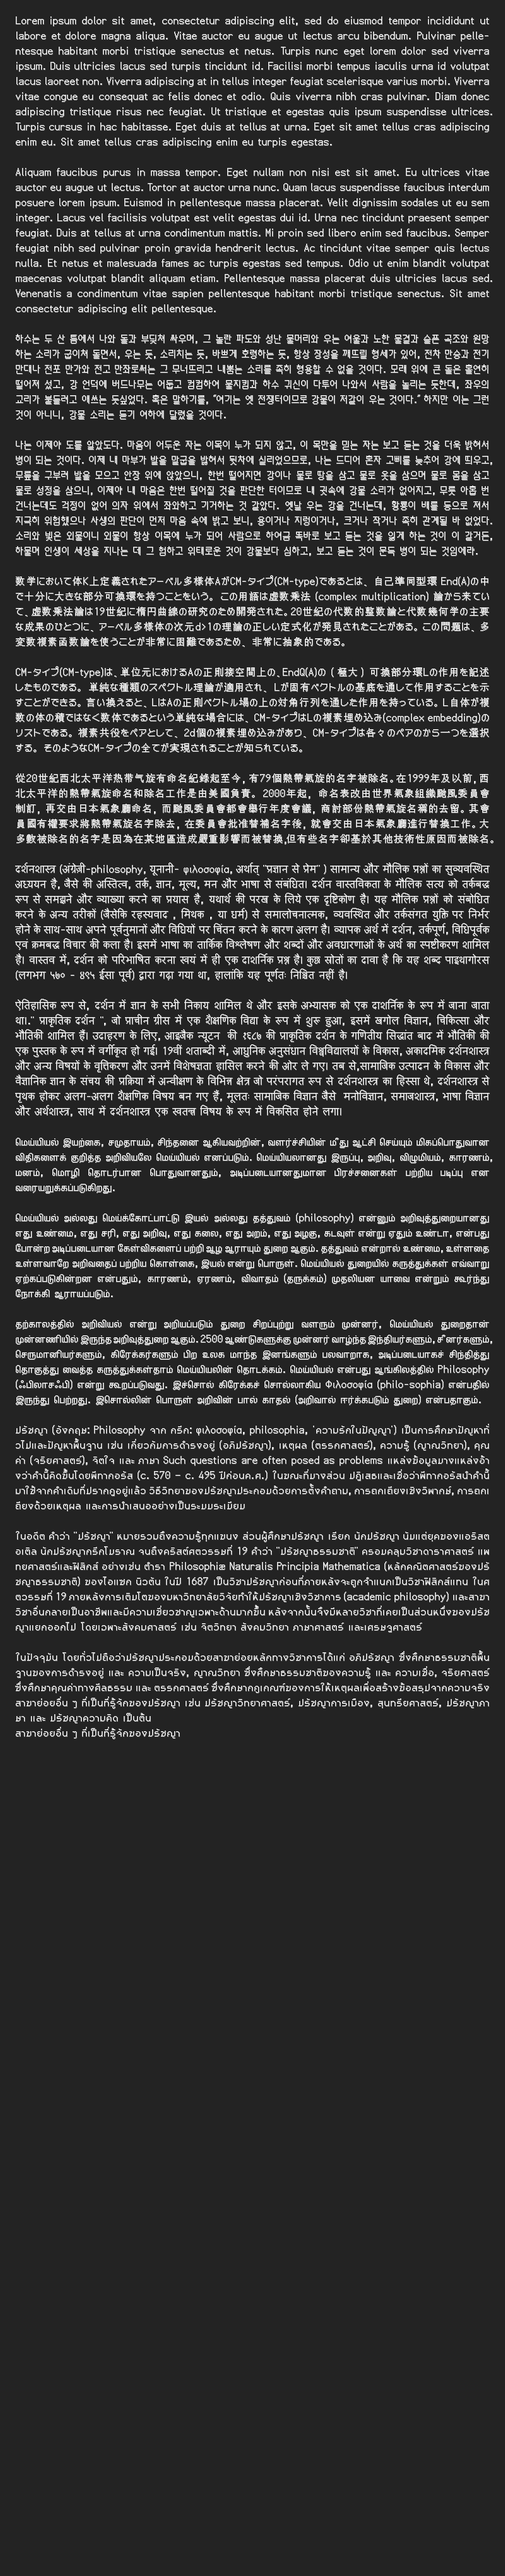
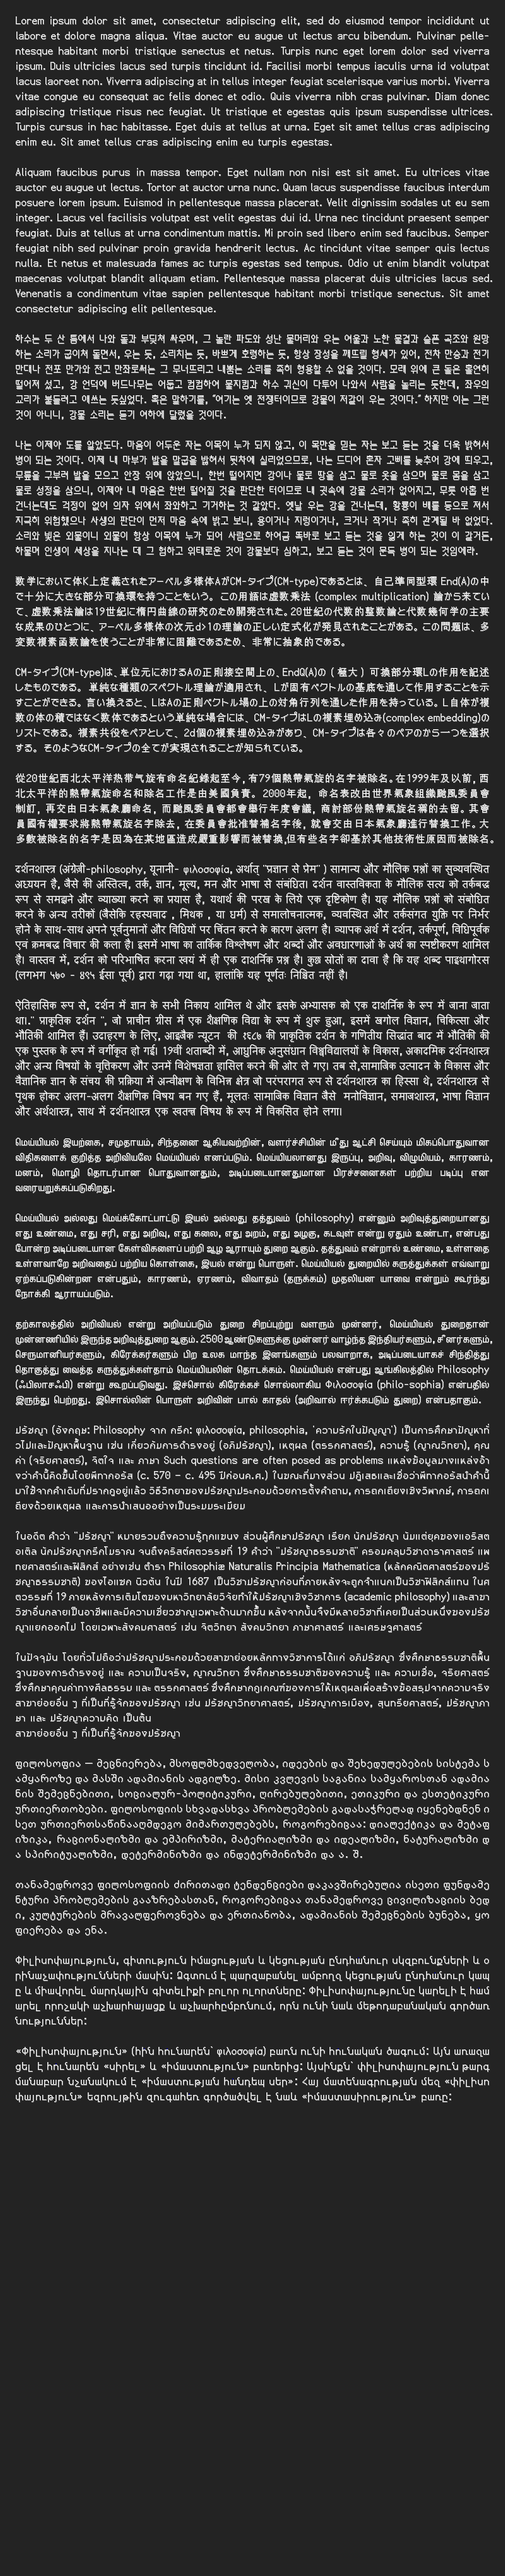
fixing quirks for more writing systems

diff --git a/src/net/torvald/terrarumsansbitmap/MovableType.kt b/src/net/torvald/terrarumsansbitmap/MovableType.kt
@@ -596,7 +596,7 @@ class MovableType(
 
         private fun penaliseHyphenation(score: Int): Float = (10.0 * pow(score.toDouble(), 1.0/3.0) + 0.47*score).toFloat()
 
-        private fun CodePoint?.isCJ() = if (this == null) false else listOf(4, 6, 20).any {
+        private fun CodePoint?.isCJ() = if (this == null) false else listOf(4, 6, 12, 13, 20, 23, ).any {
             TerrarumSansBitmap.codeRange[it].contains(this)
         }
 
